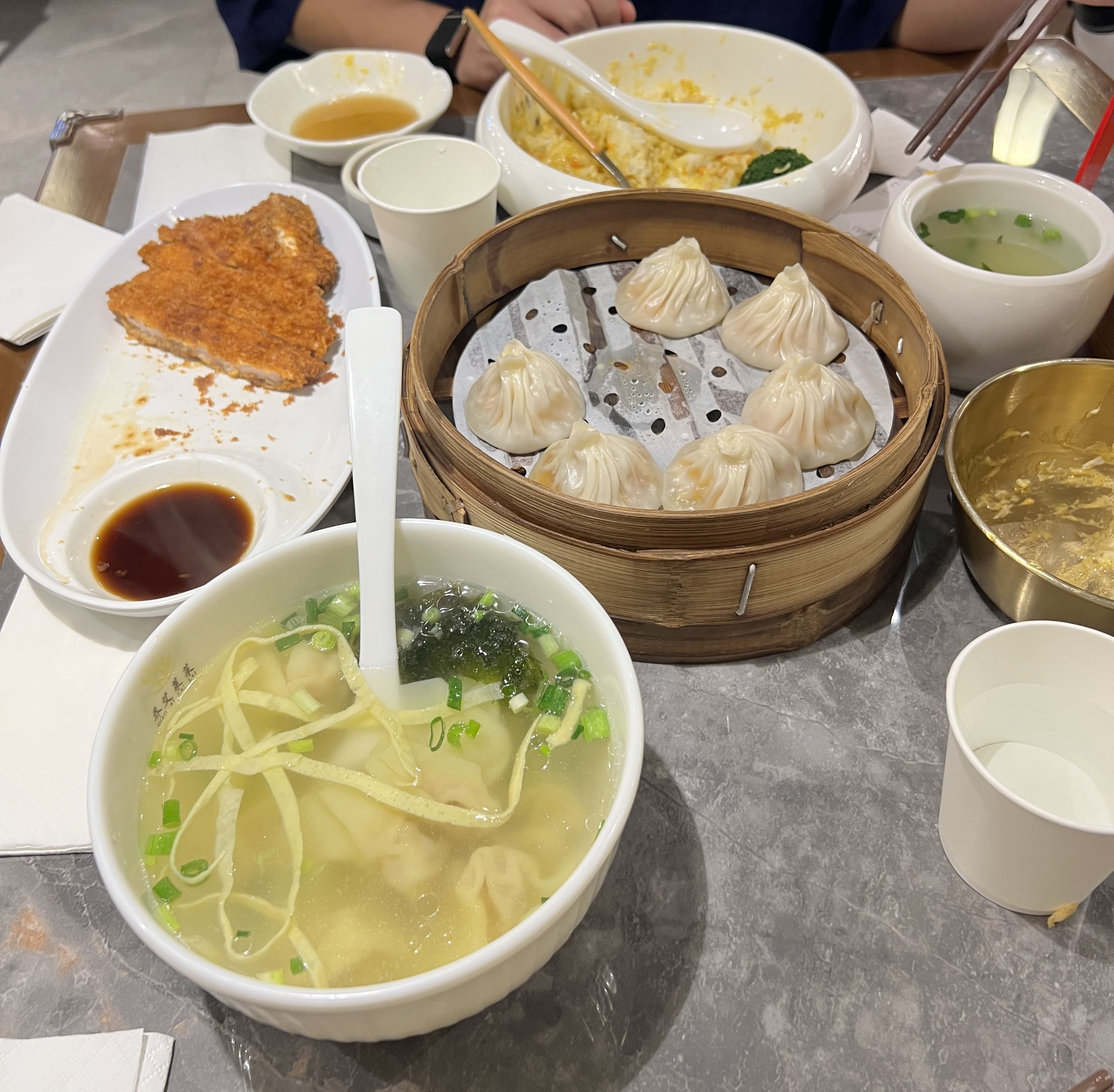
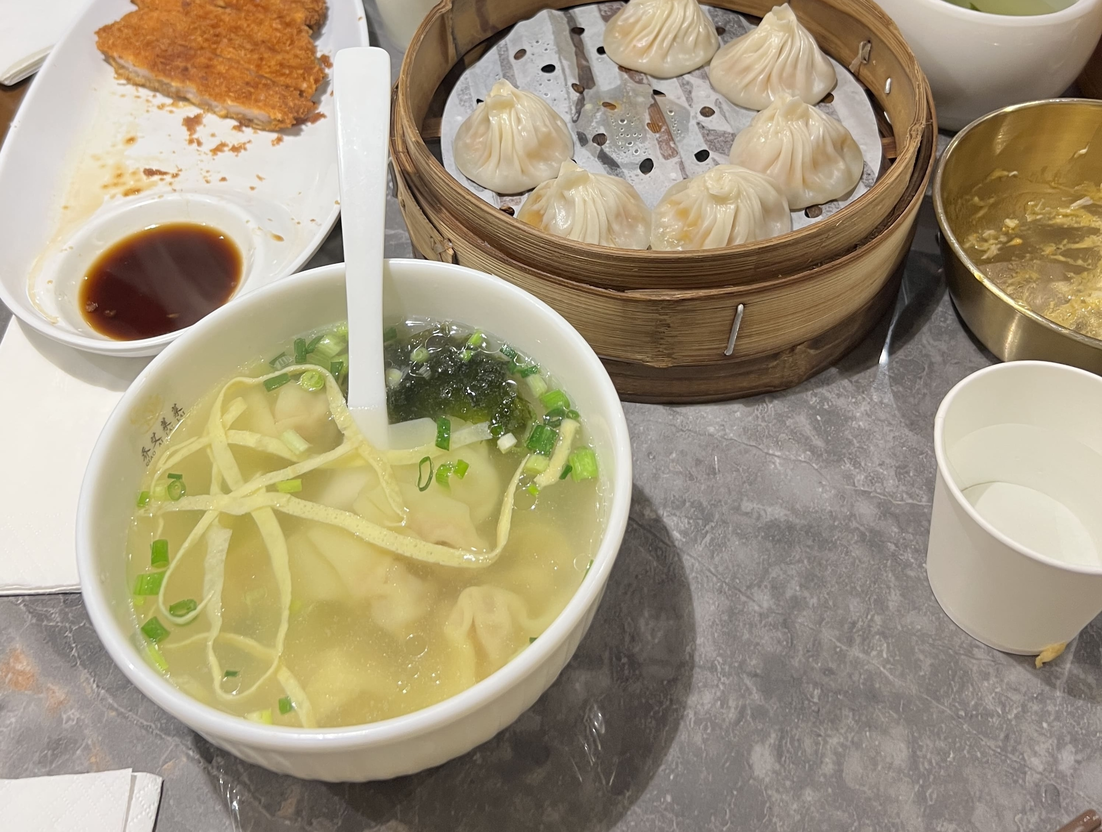
more shanghai

diff --git a/src/blog/2026/shanghai-2026.md b/src/blog/2026/shanghai-2026.md
@@ -4,7 +4,7 @@ date: 2026-07-06
 featuredImage: ../../images/asia-2026/cn/lailai-xlb.jpg
 ---
 
-This was not only my first time in Shanghai, but my first time in Mainland China! I went in equal parts excited and slightly intimidated — mostly because I knew I’d have to figure out the whole WeChat + Alipay ecosystem on the fly. We arrived late on Wednesday and immediately ran into the first “oh, we’re not in Taiwan anymore” moment: most restaurants near us were already closed by 8 or 8:30.
+This was not only my first time in Shanghai, but my first time in Mainland China! I went in equal parts excited and slightly intimidated — mostly because I knew I’d have to figure out the whole WeChat + Alipay ecosystem on the fly. We arrived late on Wednesday after flying in from Taipei and immediately ran into the first “oh, we’re not in Taiwan anymore” moment: most restaurants near us were already closed by 8 or 8:30.
 
 Thankfully, a close-by Maotou Laodie 毛头老爹饭店 was still open. There were a surprising number of foreigners inside which made me nervous at first (that the food might be meh), but once the dishes came out all was forgotten and everything was honestly really good. Portions were HUGE, prices were low, and we weren't even close to finishing everything we ordered.
 
@@ -45,7 +45,7 @@ Thankfully, a close-by Maotou Laodie 毛头老爹饭店 was still open. There we
 
 Afterwards, we also made it to Chagee at 1788 Plaza before they closed for the night, making for a very pleasant first evening.
 
-Thursday was a classic first-timer itinerary: Yu Garden + the Bund. Upon arriving, it was almost noon, so we tried looking for something to eat first. Unfortunately the area around Yu Garden felt _extremely_ touristy (as one would expect) and most food options looked unappetizing. We ended up trying Bistro10 (a hotel restaurant off the Bund), and it was a mixed bag: the xiaolongbao was actually really good and flavorful, but the crab roe noodles were super bland and definitely not worth the price.
+Thursday was a classic first-timer itinerary: Yu Garden & the Bund. Upon arriving, it was almost noon, so we tried looking for something to eat first. Unfortunately the area around Yu Garden felt _extremely_ touristy (as one would expect) and most food options looked unappetizing. We ended up trying Bistro10 (a hotel restaurant off the Bund), and it was a mixed bag: the xiaolongbao was actually really good and flavorful, but the crab roe noodles were super bland and definitely not worth the price.
 
 <div style="display: grid; grid-template-columns: 1fr 1fr; gap: 16px;">
     <div style="text-align: center;">
@@ -86,35 +86,92 @@ Late afternoon was spent strolling along a foggy Bund and weaving through crowds
 
 Upon having my first bite, it felt like heaven on earth. The flavors were _so_ bold and fragrant, I couldn't believe my taste buds. They were also very generous on the portion of fish - most of the time you order boiling fish 水煮魚 (which I recognize is not quite the same) in the U.S., you end up getting heaping spoonfuls of beansprouts and stray vegetables, but here, every time the ladle went in and out, more pieces of fish were discovered. It was honestly one of the best meals I've ever had.
 
-The Bund at night afterwards ended up being one of my favorite Shanghai moments: good vibes, not crowded, super scenic, although way windier than expected (bring a light outer layer!). Also got some pretty good photos.
+The Bund at night afterwards ended up being one of my favorite Shanghai moments: good vibes, not crowded, super scenic, although way windier than expected (bring a light outer layer!).
 
--- TODO ---
+Friday was a food and shopping day. In the morning, we stopped by a mall on Huaihai Street for Yang’s Dumpling shengjianbao, and afterwards tried an unfamiliar tea place called Shangshan Teahouse, which ended up being quite good.
 
-Friday was more food + shopping, which is basically my ideal travel rhythm. Yang’s Dumpling for shengjianbao in the morning (meat was the clear winner; shrimp was solid; xiaolongbao were fine but not the star), then Shangshan Teahouse milk tea after. I also bought a cute duck keychain (yay!).
+<div style="width: 100%; text-align: center;">
+    <img src="../../images/asia-2026/cn/yang-dumpling.jpg"
+        alt="Shengjianbao at Yang Dumpling on Huaihai"
+        style="height: 400px; object-fit:cover;display:inline-block;"
+    />
+    <small>Shengjianbao at Yang Dumpling on Huaihai</small>
+</div>
 
-Later, I redeemed the Songmont situation by going to the flagship store on Huaihai right around opening time — a _much_ better experience than Rockbund. Staff were helpful, it wasn’t crowded, and I walked out with two bags. They also mentioned a 15% discount, which made me even more annoyed that the Rockbund store didn’t say anything (like… hello??).
+Later, we visited the Songmont flagship store (the day before, I had stopped by the Rockbund store, but the inventory was extremely limited and disappointing). Staff were super helpful here, and they mentioned that there was a limited-time 15% discount. I also liked that it wasn’t too crowded but it might've been since we went at opening-ish time. After much deliberation, I walked out with two bags - one for me and one for my mom. With the local pricing, the additional discount and no tax, the price of those two combined ended up being pretty much equivalent to that of a single bag online on the international site, so I was extremely pleased.
 
-And yes, we did Matcha Wang for the sheep matcha photo. It was mostly foreigners and the drink was just alright, but watching them make it was fun and the wait wasn’t too bad on a weekday. Julu Road → Anfu Road ended up being one of my favorite parts of Shanghai: cute boutique shops, indie designer brands, trees, cafés, and generally very good vibes. Unfortunately, everything was also expensive, so I mostly just looked. I passed by a store called Monday Sleeping Club which I thought was kind of cute but a bit overpriced so I didn’t buy (more on this later).
+<div style="width: 100%; text-align: center;">
+    <img src="../../images/asia-2026/cn/matcha-wang.jpg"
+        alt="Matcha Wang"
+        style="height: 400px; object-fit:cover;display:inline-block;"
+    />
+    <small>Matcha Wang</small>
+</div>
+
+The next stop was Matcha Wang for the obligatory sheep matcha. It was mostly foreigners and the drink was just alright, but watching them make the sheep was fun and the wait wasn’t too bad on a weekday. The rest of the afternoon was spent strolling around the historic French Concession - Julu Road into Anfu Road. The vibes were extremely serene and it ended up being one of my favorite parts of Shanghai: cute boutique shops along tree-lined streets, aesthetic cafés, and overall a good time. Unfortunately, everything was also expensive, so we just window-shopped. We stopped in a store called Monday Sleeping Club which we were both intrigued by (and seemed very popular with the locals), but eventually decided against paying $30 USD for a generic-looking graphic tee.
 
 _One random practical learning from being out all day: Meituan (yellow) charging banks don’t work without a China phone number, so we had to hunt down the Energy Monster (blue) ones instead._
 
-Friday night, Lailai Xiaolong Jing’an was another highlight. The crab roe rice was genuinely so much better than the crab roe noodles from Bistro10 (redemption!), and their pork chop was surprisingly delicious too. XLB were decent, wonton was just okay and a bit small, but overall it was super worth it and also really affordable. Blueglass yogurt after was pretty good considering I don’t usually like yogurt drinks.
+For dinner, Lailai Xiaolong at the Jing’an location was another culinary highlight. There wasn't a wait and the area was quite spacious (I've heard that the OG Huangpu location is opposite on both accounts), and the crab roe rice was genuinely so much better than the crab roe noodles from Bistro10 (redemption!). Their pork chop was surprisingly delicious too - different from the Taiwanese-style Din Tai Fung style I'm used to, but crunchy and flavorful and yummy all the same. The XLB were decent although not particularly standout, and the wonton was just okay and a bit small. Overall the meal was super value and quite memorable, and I understood why it was such a popular food spot amongst tourist recommendations.
 
-Saturday was supposed to be Zhujiajiao Water Town day trip, but we pivoted to Suzhou instead (after a morning-of Reddit scrolling session). Shanghai Railway Station was a little chaotic, and we found out most of the HSR tickets were sold out — the earliest option was about 1.5 hours later. So… buy tickets in advance if you can. The wait wasn’t too bad though: early lunch in the station (surprisingly good xiaolongbao, _super_ cheap), Chagee (predictable), and then boarding.
+<div style="display: grid; grid-template-columns: 1fr 1fr; gap: 16px;">
+  <div style="text-align: center;">
+    <img
+      src="../../images/asia-2026/cn/lailai-crab.jpg"
+      alt="Crab roe rice"
+      style="width: 100%; aspect-ratio: 1 / 1; object-fit: cover;"
+    />
+    <small style="display: block;">Crab roe rice</small>
+  </div>
+  <div style="text-align: center;">
+    <img
+      src="../../images/asia-2026/cn/lailai-xlb.jpg"
+      alt="Xiao long bao"
+      style="width: 100%; aspect-ratio: 1 / 1; object-fit: cover;"
+    />
+    <small style="display: block;">Xiao long bao</small>
+  </div>
+  <div style="text-align: center;">
+    <img
+      src="../../images/asia-2026/cn/lailai-porkchop.jpg"
+      alt="Pork chop"
+      style="width: 100%; aspect-ratio: 1 / 1; object-fit: cover;"
+    />
+    <small style="display: block;">Pork chop</small>
+  </div>
+  <div style="text-align: center;">
+    <img
+      src="../../images/asia-2026/cn/lailai-soup.jpg"
+      alt="Wonton soup"
+      style="width: 100%; aspect-ratio: 1 / 1; object-fit: cover;"
+    />
+    <small style="display: block;">Wonton soup</small>
+  </div>
+</div>
+
+Saturday was supposed to be a Zhujiajiao Water Town day trip, but in the morning, we last-minute pivoted to Suzhou instead after reading some Reddit threads recommendations. Unfortunately, due to not planning ahead, most of the HSR tickets were sold out, and the earliest option was about 1.5 hours later. The wait wasn’t too bad though: we had early lunch in the station (surprisingly good xiaolongbao, _super_ cheap) and Chagee, and then it was pretty much time for boarding.
+
+<div style="width: 100%; text-align: center;">
+    <img src="../../images/asia-2026/cn/lao-sheng-chang.jpg"
+        alt="Lao Sheng Chang at Shanghai Railway Station"
+        style="height: 400px; object-fit:cover;display:inline-block;"
+    />
+    <small>Lao Sheng Chang at Shanghai Railway Station</small>
+</div>
 
 _Also: if you’re a non-resident ID holder, you need to go through the “manual entry” line for passport checks before boarding. Same idea when exiting, and you also have to go through security before you can even enter the boarding area._
 
-The train to Suzhou was fast (25 minutes). The Didi to Humble Administrator’s Garden was not (30+ minutes because of traffic). Lesson learned: take the metro in crowded areas. The garden was pretty, but it was Saturday noon, extremely crowded, and absolutely sweltering — people everywhere, everyone taking photos, and it was chaotic enough that we left after about an hour. Perhaps it would’ve been more serene on a weekday, but that experience was truly a bit hellish.
+The train to Suzhou was fast (25 minutes). The Didi to Humble Administrator’s Garden was not (30+ minutes because of traffic). Lesson learned: take the metro in crowded areas. The garden was pretty, but it was a sunny Saturday afternoon, extremely crowded, and absolutely sweltering — people everywhere, influencers taking photos, and it was chaotic enough that we left after about an hour. Perhaps it would’ve been more serene on a weekday, but the experience was a bit hellish (and I really wished they had some vending machines inside for a cold drink).
 
-Pingjiang Road was also insanely crowded, and the main area felt a bit too touristy. Things improved a lot once we wandered onto a quieter side street. We ordered Amo Shouzuo again and waited almost an hour this time (pain), but it was still good.
+Pingjiang Road was also insanely crowded, and we basically moved as part of a collective monstrous mass that slowly inched its way down the long street. The shops lining the side might've been interesting to me if I hadn't already been to places like Jiufen in Taiwan about a million times, but alas... Eventually we were able to break from the crowds and wandered onto a quieter side street, where we were finally able to enjoy our surroundings. We ordered Amo Shouzuo again and waited almost an hour this time (pain), but it was still good.
 
-The best surprise was finding a cute Taiwanese cafe selling street snacks — we sat there for over an hour just chatting with the owners, and it was much quieter and more relaxed than everything else. Later, we walked by the river and saw this giant ancient wall with bridges, canals, and trees, and it felt _so_ much more beautiful (and definitely calmer) than the human-photographer-infested garden.
+On the way back from Amo Shouzuo, still in those (more serene) side alleys, we came across a cute Taiwanese cafe selling street snacks. We ended up sitting there for over an hour just chatting with the owners, and it was much quieter and more relaxed than everything else that had happened that day. The funniest thing was that when we told them we had initially planned to go to Zhujiajiao instead, they (locals) had never heard of the place at all.
 
-After Suzhou, we metro’d back to the railway station, HSR’d to Shanghai, and immediately went back to Anfu Lu for Monday Sleeping Club. (Yes… don’t ask.) I saw it the day before as aforementioned and thought it wasn’t all that - and then decided it was — so Daniel and I each got a t-shirt, and I got a hat as well.
+We strolled around a bit more, enjoying the peacefulness of the non-crowd-infested areas, and finally metro’d back to the railway station, HSR’d to Shanghai, and immediately went back to Anfu Lu for Monday Sleeping Club. In 24 hours my brain went from "overpriced $30 graphic tee" to "hype local brand... i must get," so Daniel and I each got a t-shirt, and I got a hat as well.
 
-To end the day, we did Xintiandi + hotpot at Jinshan Koufu, and it was one of the best hotpots I’ve ever had. It wasn’t super cheap (around ~$32 per person), but the meat quality was really good and everything was just honestly super delicious. We tried to get boba after and failed because it was 9:40, and apparently some places that “close at 10” stop taking orders at 9:30. We walked around Xintiandi afterwards and it felt very upscale Europe-outdoor-dining-street vibes (and also a little Las Vegas) which was a little strange in the center of Shanghai, but perhaps not as strange considering the city’s international history.
+To end the day, we grabbed hotpot in the Xintiandi area at a place called Jinshan Koufu, which was very solid. It wasn’t super cheap (ended up being around ~$32 per person), but the meat quality was really good. We tried to get boba after and failed because it was 9:40, and apparently some places that “close at 10” stop taking orders at 9:30. We walked around Xintiandi afterwards and it felt very upscale Europe-outdoor-dining-street vibes (and also a little like Las Vegas), almost like a theme park.
 
-Overall, Shanghai was really fun and there’s a _lot_ to do, but three days felt short. There were places we didn’t get to (Tianzifang, People’s Square, Jing’an Temple), and it also would’ve been cool to stay longer in Suzhou or even go to Zhouzhuang (introduced to me by Chloe Gong) if we had more time!
+Overall, Shanghai was really fun and there’s a _lot_ to do, so three days felt way too short. There were places we didn’t get to (Tianzifang, People’s Square, Jing’an Temple), and it also would’ve been cool to stay longer in Suzhou or even go to Zhouzhuang (introduced to me by Chloe Gong's books) if we had more time!
 
 It is a little intimidating having to use WeChat and Alipay everywhere, and some services just don’t work without a Chinese phone number (can’t order delivery on Meituan, can’t buy HSR tickets in advance on your phone). Things also close earlier than Taiwan, and there aren’t really night markets or street food stalls in the same way. But I’d definitely go back and visit again!
 
@@ -131,5 +188,6 @@ Least favorite things:
 - crowds at Humble Administrator’s Garden and Pingjiang Road
 - crab roe noodles at Bistro10
 - waiting one hour for Amo Shouzuo
-- Didi drivers lowkey scamming us (telling us to adjust the dropoff location so that they get paid more, accepting a ride and then never showing up so we’re forced to cancel)
-- Songmont Rockbund store
+- Didi drivers accepting the ride and then never coming
+
+_tags: location/china, food recommendations, shanghai travels_
